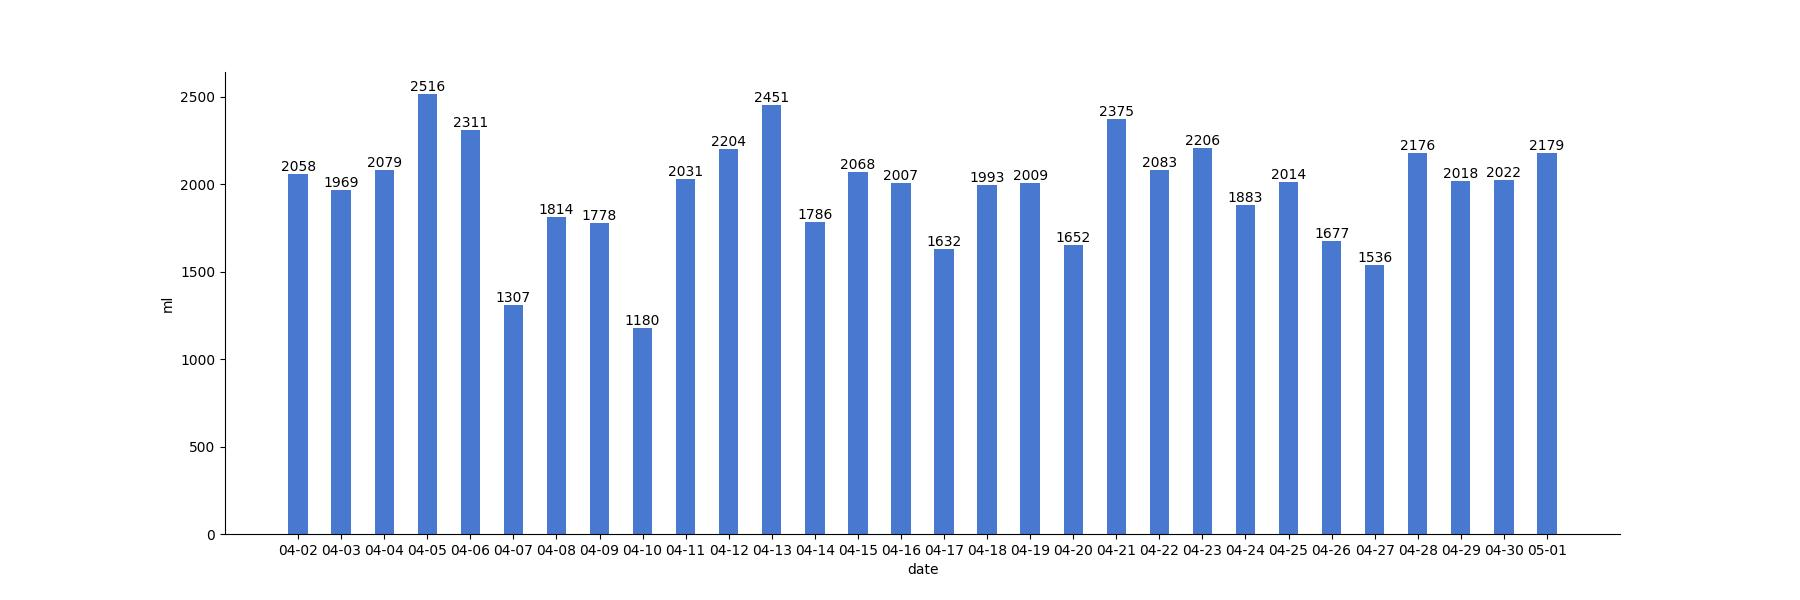
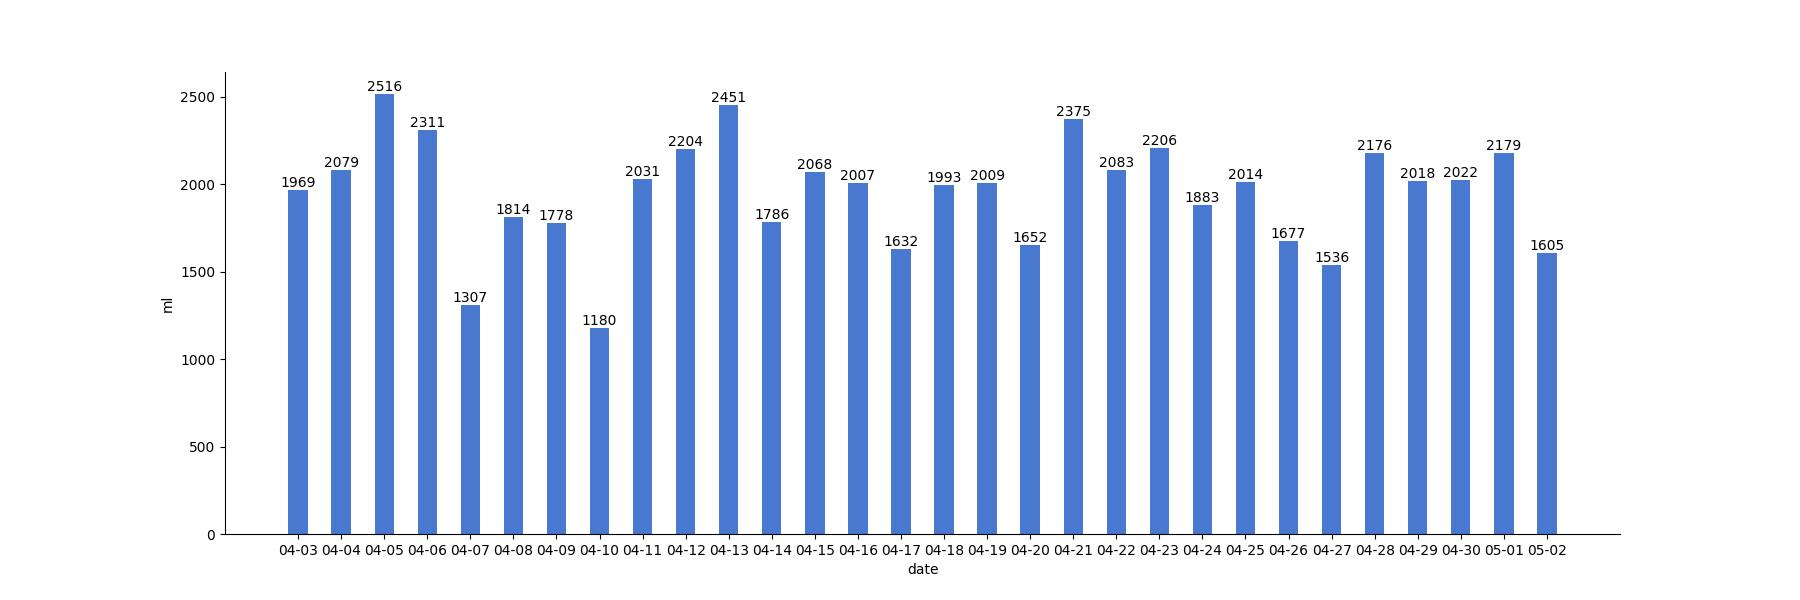
generated readme

diff --git a/README.md b/README.md
@@ -1,17 +1,3 @@
-# 今日饮水数据
-
-<div align=center>
-<img src="today.jpg" style="zoom: 100%;" />
-
-| 今日总饮水量 | 每小时平均饮水量 |
-| :----: | :----: |
-| 1576 | 112 |
-</div>
-
-| 日期 | 00:10:40 | 00:29:25 | 00:44:18 | 01:39:34 | 03:59:53 | 11:20:08 | 11:46:14 | 12:16:22 | 13:16:11 | 13:46:32 | 13:50:07 | 14:09:53 | 14:39:32 | 15:13:25 | 18:17:49 | 18:47:29 | 19:48:59 | 20:18:22 | 20:35:18 | 20:52:37 | 21:22:31 | 21:36:10 | 22:06:21 | 22:36:22 | 22:58:59 | 23:28:19 |
-| :----: | :----: | :----: | :----: | :----: | :----: | :----: | :----: | :----: | :----: | :----: | :----: | :----: | :----: | :----: | :----: | :----: | :----: | :----: | :----: | :----: | :----: | :----: | :----: | :----: | :----: | :----: |
-| 2022-05-02 | 32 | 40 | 25 | 33 | 30 | 77 | 35 | 93 | 200 | 9 | 61 | 55 | 46 | 95 | 82 | 44 | 77 | 78 | 66 | 45 | 77 | 58 | 15 | 66 | 87 | 50 |
-
 # 近30日饮水数据
 
 <div align=center>
@@ -19,8 +5,12 @@
 
 | 总饮水量 | 日均饮水量 |
 | :----: | :----: |
-| 59014 | 1967 |
+| 58561 | 1952 |
 </div>
+
+| 日期 | all | 00:10:40 | 00:29:25 | 00:44:18 | 01:39:34 | 03:59:53 | 11:20:08 | 11:46:14 | 12:16:22 | 13:16:11 | 13:46:32 | 13:50:07 | 14:09:53 | 14:39:32 | 15:13:25 | 18:17:49 | 18:47:29 | 19:48:59 | 20:18:22 | 20:35:18 | 20:52:37 | 21:22:31 | 21:36:10 | 22:06:21 | 22:36:22 | 22:58:59 | 23:28:19 | 23:58:37 |
+| :----: | :----: | :----: | :----: | :----: | :----: | :----: | :----: | :----: | :----: | :----: | :----: | :----: | :----: | :----: | :----: | :----: | :----: | :----: | :----: | :----: | :----: | :----: | :----: | :----: | :----: | :----: | :----: | :----: |
+| 2022-05-02 | 1605 | 32 | 40 | 25 | 33 | 30 | 77 | 35 | 93 | 200 | 9 | 61 | 55 | 46 | 95 | 82 | 44 | 77 | 78 | 66 | 45 | 77 | 58 | 15 | 66 | 87 | 50 | 29 |
 
 | 日期 | all | 00:12:00 | 00:42:24 | 01:52:22 | 02:11:27 | 02:24:31 | 02:40:05 | 03:03:29 | 03:10:33 | 03:22:15 | 03:36:01 | 03:51:02 | 04:18:35 | 04:40:21 | 05:01:48 | 13:42:58 | 14:12:23 | 15:12:45 | 15:42:32 | 16:12:38 | 16:42:33 | 17:12:18 | 18:43:10 | 19:15:24 | 20:12:46 | 20:37:08 | 21:07:33 | 21:38:22 | 22:19:36 | 22:45:18 |
 | :----: | :----: | :----: | :----: | :----: | :----: | :----: | :----: | :----: | :----: | :----: | :----: | :----: | :----: | :----: | :----: | :----: | :----: | :----: | :----: | :----: | :----: | :----: | :----: | :----: | :----: | :----: | :----: | :----: | :----: | :----: |
@@ -141,8 +131,4 @@
 | 日期 | all | 00:47:17 | 01:22:16 | 01:52:30 | 02:22:36 | 02:53:53 | 03:23:58 | 03:53:29 | 04:18:26 | 04:38:29 | 05:14:13 | 05:44:14 | 06:14:49 | 07:00:38 | 07:32:37 | 07:51:10 | 08:27:01 | 09:01:04 | 16:31:45 | 17:06:27 | 17:40:04 | 18:31:37 | 18:42:38 | 20:28:07 | 20:40:13 | 21:20:06 | 21:35:54 | 22:05:37 | 22:35:46 | 23:06:11 | 23:32:46 |
 | :----: | :----: | :----: | :----: | :----: | :----: | :----: | :----: | :----: | :----: | :----: | :----: | :----: | :----: | :----: | :----: | :----: | :----: | :----: | :----: | :----: | :----: | :----: | :----: | :----: | :----: | :----: | :----: | :----: | :----: | :----: | :----: |
 | 2022-04-02 | 2058 | 200 | 79 | 77 | 14 | 121 | 73 | 32 | 94 | 17 | 89 | 200 | 58 | 105 | 124 | 30 | 61 | 44 | 43 | 32 | 30 | 66 | 19 | 7 | 62 | 51 | 30 | 76 | 81 | 40 | 103 |
-
-| 日期 | all | 00:08:25 | 00:45:50 | 01:38:19 | 02:09:06 | 02:40:02 | 03:10:21 | 03:40:57 | 04:15:20 | 04:45:34 | 05:14:33 | 05:44:31 | 06:51:01 | 07:23:05 | 07:55:57 | 08:48:41 | 13:01:47 | 16:59:07 | 17:48:02 | 18:18:30 | 19:09:17 | 20:30:17 | 21:08:57 | 21:34:14 | 22:04:35 | 22:44:46 | 23:36:51 | 23:54:16 |
-| :----: | :----: | :----: | :----: | :----: | :----: | :----: | :----: | :----: | :----: | :----: | :----: | :----: | :----: | :----: | :----: | :----: | :----: | :----: | :----: | :----: | :----: | :----: | :----: | :----: | :----: | :----: | :----: | :----: |
-| 2022-04-01 | 2144 | 36 | 200 | 94 | 57 | 43 | 69 | 76 | 63 | 13 | 87 | 200 | 91 | 68 | 76 | 30 | 15 | 15 | 300 | 71 | 45 | 60 | 68 | 68 | 107 | 102 | 39 | 51 |
 
